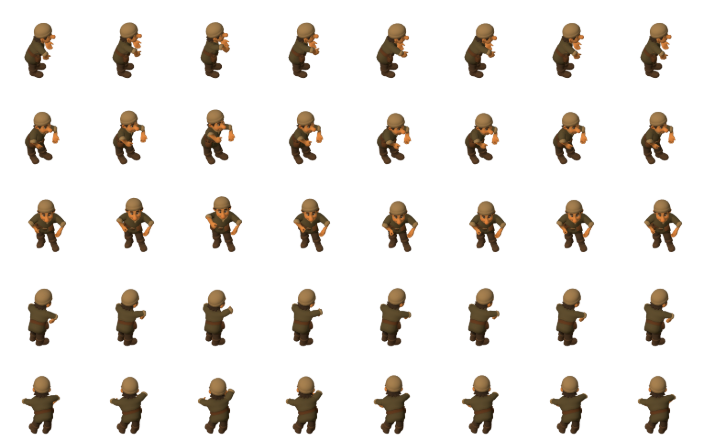
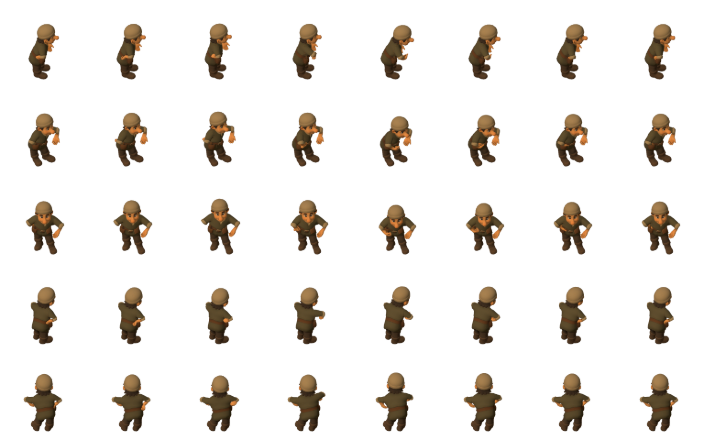
Bauarbeiter-Hammerschlag neu gebacken: vertikale Schlagebene statt Golf-Schwung
Der bisherige Zyklus las sich als seitlicher Golf-Abschlag (Arm waagerecht,
Ausholen übers Ohr, beidarmiger Schwung). Neuer 8-Bilder-Zyklus mit klar
vertikaler Schlagebene, Kontakt unverändert auf Spalte 4 (Ton-Synchronität):
- Bild 0: bereit, Hammer locker vor der Brust, Füße stehen
- Bild 1-2: Ausholen – Unterarm beugt, Faust ans Ohr, Hammer steil nach
  oben neben Kopf/über Schulter (Ellbogen unten, kein Seitausholen)
- Bild 3: Peitschenmoment über Kopf (Arm streckt, Hammer noch oben-hinten)
- Bild 4: Kontakt – Arm fast gestreckt schräg nach vorn-unten, Rumpf lehnt
  ~-12° mit, Treffpunkt vor der Figur
- Bild 5: kleiner Rückpraller, Bild 6-7: zurück in Bereitschaft
Freie linke Hand stützt konstant vor der Brust (schwingt nicht mit), keine
Hüftdrehung. Handgelenkwinkel numerisch kalibriert (neue Hilfsfunktion
window.toolHeadPos() in tools/bake-sprites.html misst die Weltrichtung
Faust->Hammerkopf): Ausholen elev +68°, Kontakt elev -32°, Seitneigung ~0.
Werkzeug-Überlagerungsblatt deckungsgleich mitgebacken.

Claude-Session: https://claude.ai/code/session_01NJiXwFpbq91ri9gPbhzERB

diff --git a/tools/bake-sprites.html b/tools/bake-sprites.html
@@ -204,6 +204,17 @@ window.toolAttach=(kind, boneName, pos=[0,0,0], rotDeg=[0,0,0], scale=1)=>{
   toolGroups.push(gph);
   return 'ok';
 };
+// Weltlage der Werkzeug-Köpfe in der AKTUELLEN Pose – für numerische
+// Posen-Kalibrierung (z. B. Hammerkopf-Richtung) statt Augenmaß
+window.toolHeadPos=()=>{
+  root.updateMatrixWorld(true);
+  const v=new THREE.Vector3();
+  return toolGroups.map(g=>{
+    const k=g.children[1]||g.children[0];
+    k.getWorldPosition(v);
+    return { name:g.name, x:+v.x.toFixed(4), y:+v.y.toFixed(4), z:+v.z.toFixed(4) };
+  });
+};
 // ---- Inseln: Werkzeuge stecken als eigene Zusammenhangs-Komponenten im
 // EINEN SkinnedMesh der Tripo-Modelle. Über die Dreiecks-Nachbarschaft lassen
 // sie sich finden und abtrennen (Axt/Schaufel/Rute raus aus der Figur).
